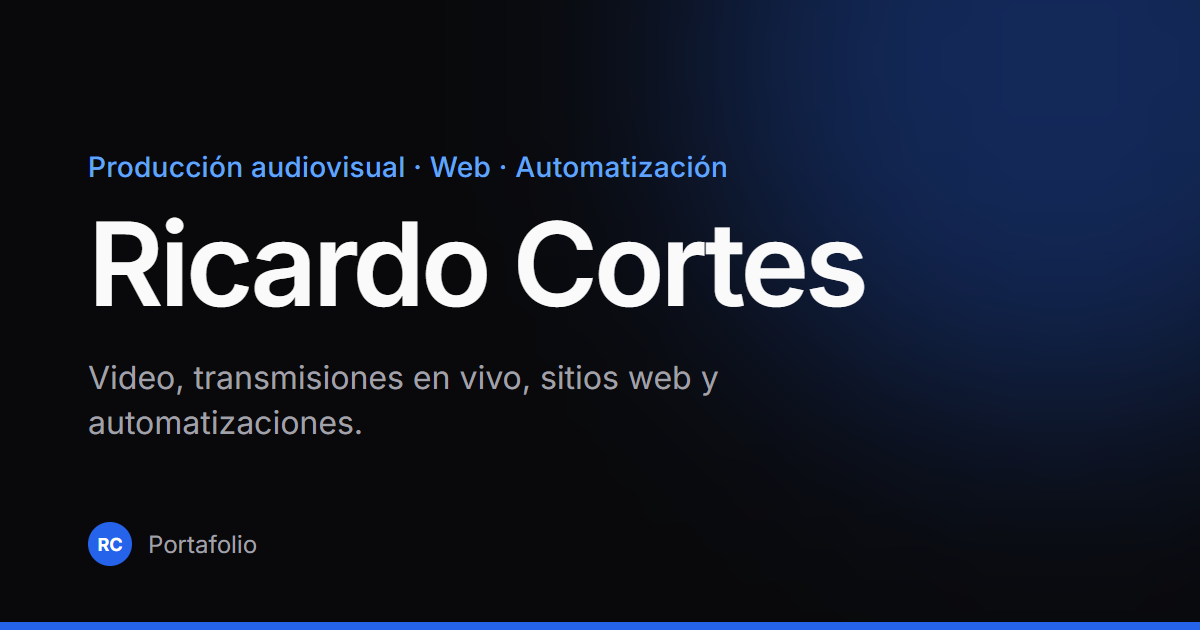
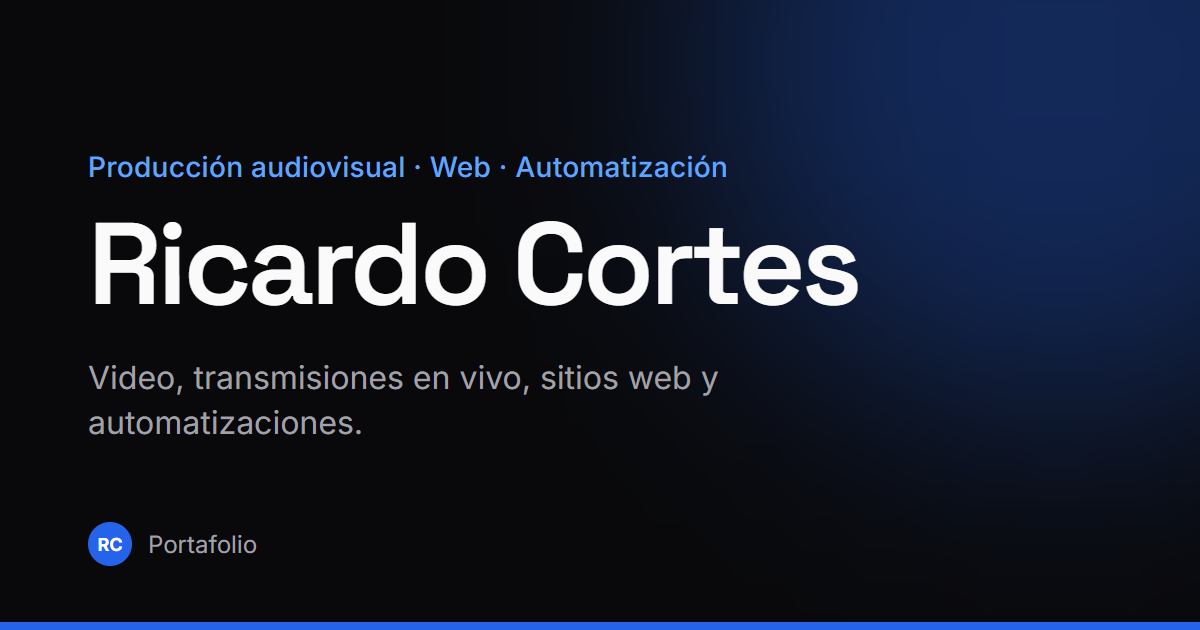
Tipografía de títulos: Space Grotesk alojada en el sitio
Títulos (h1-h3) y marca en Space Grotesk variable, texto en Inter.
La fuente se precarga para evitar el salto en el título del hero.

Changed region(s): [[0.4317, 0.3317, 0.74, 0.5127], [0.0925, 0.3317, 0.4008, 0.4825]]

diff --git a/src/styles/index.css b/src/styles/index.css
@@ -41,8 +41,28 @@
   --color-accent-fg: var(--accent-fg);
 }
 
+/* Space Grotesk variable (300–700), alojada en public/fonts: latin se precarga desde index.html */
+@font-face {
+  font-family: 'Space Grotesk';
+  font-style: normal;
+  font-weight: 300 700;
+  font-display: swap;
+  src: url('/fonts/space-grotesk-latin.woff2') format('woff2');
+  unicode-range: U+0000-00FF, U+0131, U+0152-0153, U+02BB-02BC, U+02C6, U+02DA, U+02DC, U+0304, U+0308, U+0329, U+2000-206F, U+20AC, U+2122, U+2191, U+2193, U+2212, U+2215, U+FEFF, U+FFFD;
+}
+
+@font-face {
+  font-family: 'Space Grotesk';
+  font-style: normal;
+  font-weight: 300 700;
+  font-display: swap;
+  src: url('/fonts/space-grotesk-latin-ext.woff2') format('woff2');
+  unicode-range: U+0100-02BA, U+02BD-02C5, U+02C7-02CC, U+02CE-02D7, U+02DD-02FF, U+0304, U+0308, U+0329, U+1D00-1DBF, U+1E00-1E9F, U+1EF2-1EFF, U+2020, U+20A0-20AB, U+20AD-20C0, U+2113, U+2C60-2C7F, U+A720-A7FF;
+}
+
 @theme {
   --font-sans: 'Inter Variable', ui-sans-serif, system-ui, sans-serif;
+  --font-display: 'Space Grotesk', 'Inter Variable', ui-sans-serif, system-ui, sans-serif;
 }
 
 @layer base {
@@ -51,6 +71,13 @@
     color: var(--fg);
     -webkit-font-smoothing: antialiased;
     -moz-osx-font-smoothing: grayscale;
+  }
+
+  /* Títulos con Space Grotesk; el texto corrido sigue en Inter */
+  h1,
+  h2,
+  h3 {
+    font-family: 'Space Grotesk', 'Inter Variable', ui-sans-serif, system-ui, sans-serif;
   }
 
   :focus-visible {

diff --git a/index.html b/index.html
@@ -9,6 +9,7 @@
       content="Portafolio de Ricardo Cortes: producción audiovisual (grabación, transmisiones en vivo y edición), desarrollo de sitios web y automatización de procesos con workflows y scripts."
     />
     <link rel="icon" href="/favicon.svg" type="image/svg+xml" />
+    <link rel="preload" href="/fonts/space-grotesk-latin.woff2" as="font" type="font/woff2" crossorigin />
     <meta name="theme-color" content="#ffffff" media="(prefers-color-scheme: light)" />
     <meta name="theme-color" content="#09090b" media="(prefers-color-scheme: dark)" />
 

diff --git a/src/shared/ui/Navbar.tsx b/src/shared/ui/Navbar.tsx
@@ -33,7 +33,7 @@ export function Navbar() {
   return (
     <header className="sticky top-0 z-40 border-b border-line bg-canvas/80 backdrop-blur-md">
       <Container className="flex h-16 items-center justify-between gap-4">
-        <Link to="/" onClick={closeMenu} className="text-base font-semibold tracking-tight text-fg">
+        <Link to="/" onClick={closeMenu} className="font-display text-base font-semibold tracking-tight text-fg">
           Ricardo Cortes
         </Link>
 
